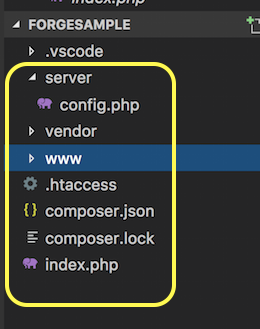
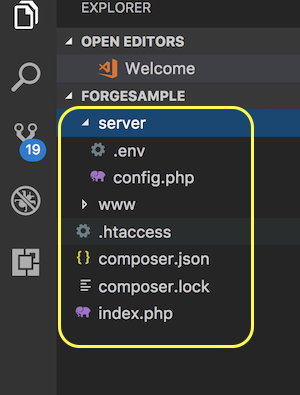
fix #7 and upated related information

diff --git a/docs/environment/setup/php.md b/docs/environment/setup/php.md
@@ -14,8 +14,9 @@ This creates the **composer.json** file, which defines which packages our projec
 
 ## Install packages
 
-By default, a PHP project is empty, so we need to install a few packages with **composer require**. Let's start with a basic **PHP** server, **klein** for router handling, of course, **Autodesk Forge**.
+By default, a PHP project is empty, so we need to install a few packages with **composer require**. Let's start with a basic **PHP** server, **klein** for router handling, **phpdotenv** to load environment variables from `.env` to `getenv()`, `$_ENV` and `$_SERVER` automagically, of course, **Autodesk Forge**.
 * Check [klein](https://packagist.org/packages/klein/klein) if you want to know more about usage of klein. 
+* Check [phpdotenv](https://packagist.org/packages/vlucas/phpdotenv) if you want to know more about usage of phpdotenv. 
 * Check [Autodesk Forge](https://packagist.org/packages/autodesk/forge-client) if you want to know more about usage of Forge PHP SDK. 
 
 
@@ -24,6 +25,7 @@ By default, a PHP project is empty, so we need to install a few packages with **
 ```
 composer require autodesk/forge-client
 composer require klein/klein
+composer require vlucas/phpdotenv
 ```
 
 > The libary would be also saved on the **composer.json** file. 
@@ -44,7 +46,8 @@ Now your folder should have a **vendor** folder and your **composer.json** shoul
     ],
     "require": {
         "autodesk/forge-client": "^1.0",
-        "klein/klein": "^2.1"
+        "klein/klein": "^2.1",
+        "vlucas/phpdotenv": "^2.4.0"
     }  
 }
 ```
@@ -61,21 +64,25 @@ At this point, you project should be something like:
 
 ![](_media/php/vs_code_explorer.png) 
 
-## Setup credentials
+## .env 
 
 > It's important to define **ID & Secret** as environment variables so our project can use it for authorized requests..
 
-To setup the environment variables, follow these steps, depending on your operationg system.
-Mac OSX/Linux (Terminal)
+To setup the environment variables, create a file named **.env**, and add your forge client id and client secret to the .env file in the server folder of your project as follow:
 
-    export FORGE_CLIENT_ID=<<YOUR CLIENT ID FROM DEVELOPER PORTAL>>
-    export FORGE_CLIENT_SECRET=<<YOUR CLIENT SECRET>>
-Click to copy
-Windows (Command Prompt)
+    FORGE_CLIENT_ID="<<YOUR CLIENT ID FROM DEVELOPER PORTAL>>"
+    FORGE_CLIENT_SECRET="<<YOUR CLIENT SECRET FROM DEVELOPER PORTAL>>"
 
-    set FORGE_CLIENT_ID=<<YOUR CLIENT ID FROM DEVELOPER PORTAL>>
-    set FORGE_CLIENT_SECRET=<<YOUR CLIENT SECRET>>
+And .env can be loaded into your application with the following code later in **config.php** file:  
+```php
+use Dotenv\Dotenv;
 
+// load the environment variable from .env into your application
+$dotenv = new Dotenv(__DIR__);
+$dotenv->load();
+$forge_id = getenv('FORGE_CLIENT_ID');
+$forge_secret = getenv('FORGE_CLIENT_SECRET');
+```
 
 ## index.php
 
@@ -148,6 +155,7 @@ Under **/server/** create a file named `config.php` with the following content:
 ```php
 <?php
 namespace Autodesk\ForgeServices;
+use Dotenv\Dotenv;
 
 class ForgeConfig{
     private static $forge_id = null;
@@ -155,12 +163,24 @@ class ForgeConfig{
 
     public static function getForgeID(){
       $forge_id = getenv('FORGE_CLIENT_ID');
-      return $forge_id? $forge_id : "<<YOUR CLIENT ID FROM DEVELOPER PORTAL>>";
+      if(!$forge_id){
+        // load the environment variable from .env into your application
+        $dotenv = new Dotenv(__DIR__);
+        $dotenv->load();
+        $forge_id = getenv('FORGE_CLIENT_ID');
+     }
+      return $forge_id;
     }
 
     public static function getForgeSecret(){
       $forge_secret = getenv('FORGE_CLIENT_SECRET');
-      return $forge_secret? $forge_secret : "<<YOUR CLIENT SECRET FROM DEVELOPER PORTAL>>";
+      if(!$forge_secret){
+        // load the environment variable from .env into your application
+        $dotenv = new Dotenv(__DIR__);
+        $dotenv->load();
+        $forge_secret = getenv('FORGE_CLIENT_SECRET');
+     }
+      return $forge_secret;
     }
 
     // Required scopes for your application on server-side
@@ -170,12 +190,13 @@ class ForgeConfig{
 
     // Required scope of the token sent to the client
     public static function getScopePublic(){
-      return ['viewables:read'];
-    }
+      // Will update the scope to viewables:read when #13 of autodesk/forge-client is fixed
+      return ['data:read'];
+    } 
 }
 ```
 
-We are defining our ENV variables here, at the time of running our PHP server the values on these variables will be use to connect to the different Autodesk Forge services we will need.
+We are getting our ENV variables here, at the time of running our PHP server the values on these variables will be use to connect to the different Autodesk Forge services we will need.
 
 Last we see there are 2 definitions about scopes. These scopes give our Token the right permission for the use of the different services of the Forge We Services. This tutorial is dedicated to the use of the Viewer only, we will only need the "viewables:read" scope.
 

diff --git a/docs/environment/tools/php.md b/docs/environment/tools/php.md
@@ -10,15 +10,33 @@ Install [Composer](https://getcomposer.org/download/) to manage your dependency.
 
 > Check the detail at [Answer on StackOverflow](https://stackoverflow.com/questions/25018894/osx-bash-composer-command-not-found).
   
+ Install [xDebug](https://xdebug.org/index.php) which is an extension for PHP to assist with debugging and development, we will config this with **PHP Debug** later.
+
 Now we need an IDE to write the code. There are many options, this tutorial will use [Visual Studio Code](https://code.visualstudio.com/).
 
 > For this tutorial, use all default install options.
 
-Next, install the extension of **PHP Server** for Visual Code, this can help serve your current workspace with PHP.
-
+Finally, install the extensions of **PHP Server** and **PHP Debug** for Visual Code, 
 - Go to Visual Code extension manager (left side, bottom icon)
-- Type `PHP` and select `PHP Server` plugin made by ***brapifra***.
+- Type `PHP` and select/install `PHP Debug` & `PHP Server` plugin.
 
-![](_media/php/vs_code_extension.gif) 
+![](_media/php/vs_code_extension.png) 
+
+- **PHP Server** extension can help host/serve current workspace (or subfolder) with PHP easily.
+> If you have mulitple PHP versions installed, you can specify the location of your PHP executable by override the **phpserver.phpPath** in Visual Code **User Settings**. If empty, the extension will use the PHP executable which appears in the $PATH environment variable
+ 
+
+- **PHP Debug** extension is a debug adapter between Visual Code and XDebug. 
+> **PHP Debug** extension requires to configure with XDebug to make it work, please check the details at PHP Debug extension or a good [blog post about configuration](https://blogs.msdn.microsoft.com/nicktrog/2016/02/11/configuring-visual-studio-code-for-php-development/), and here is the brief steps:
+> 1. install PHP & xDebug as shown above.
+> 2. update your php.ini file with the following settings, make sure that zend_extension points to the correct location.
+
+      [xdebug]
+        zend_extension="<<path/to/xdebug>>"
+        xdebug.remote_enable=1
+        xdebug.remote_host=localhost
+        xdebug.remote_port=9000
+        xdebug.remote_autostart=1
+
 
 Next: [Authentication](oauth/)

diff --git a/docs/environment/rundebug/php.md b/docs/environment/rundebug/php.md
@@ -1,9 +1,33 @@
 # Running & Debugging (PHP)
 
+Make sure **PHP Server** & **PHP Debug** extensions are installed in Visual Code, if not, please check the [**Tools**](environment/tools/php) section first.
+
+## Start/Stop server
+
 Open the Command Palette from VS Code, and run the command **Serve Project With PHP**, it will start PHP server at port 3000, and run **Stop PHP Server** command to stop the server.
 
 ![](_media/php/vs_code_debug.png) 
 
 Open your browser and go to `http://localhost:3000`
+
+
+## Debug
+To start debugging, and navigate to the **Debugging** tab in VS Code. Then press the little gear icon to generate the launch.json file for PHP, which will contain the configurations for debugging. By default, there would be a single configuration as below:
+
+```javascript
+    {
+        "name": "Listen for XDebug",
+        "type": "php",
+        "request": "launch",
+        "port": 9000
+    },
+```
+You can set breakpoints in your source code by selecting a line and pressing F9, and start debugging with this configuration.
+
+If you now hit the specific web page, VS Code will break into your source code at the specified breakpoint. You’ll then get information about variables, call stack, etc. in the left hand pane.
+
+
+![](_media/php/vs_code_debug.gif) 
+
 
 Next: [Deployment](deployment/)
